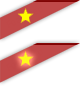
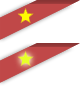
Further move ribbon lower.

diff --git a/css/pengx.css b/css/pengx.css
@@ -369,15 +369,15 @@ h2.title
      -moz-transition: all 0.2s ease-in-out;
        -o-transition: all 0.2s ease-in-out;
           transition: all 0.2s ease-in-out;
-  -webkit-box-shadow: 0 0 10px rgba(0, 0, 0, 0.05);
-     -moz-box-shadow: 0 0 10px rgba(0, 0, 0, 0.05);
-          box-shadow: 0 0 10px rgba(0, 0, 0, 0.05);
+  -webkit-box-shadow: 0 3px 10px rgba(0, 0, 0, 0.05);
+     -moz-box-shadow: 0 3px 10px rgba(0, 0, 0, 0.05);
+          box-shadow: 0 3px 10px rgba(0, 0, 0, 0.05);
 }
 
 .well:hover {
-  -webkit-box-shadow: 0 0 10px rgba(0, 0, 0, 0.2);
-     -moz-box-shadow: 0 0 10px rgba(0, 0, 0, 0.2);
-          box-shadow: 0 0 10px rgba(0, 0, 0, 0.2);
+  -webkit-box-shadow: 0 3px 10px rgba(0, 0, 0, 0.2);
+     -moz-box-shadow: 0 3px 10px rgba(0, 0, 0, 0.2);
+          box-shadow: 0 3px 10px rgba(0, 0, 0, 0.2);
 }
 
 /* 使帖子定位更精确 */
@@ -391,7 +391,7 @@ h2.title
   background:url('/image/featured-small-full.png') no-repeat;
   width: 80px;
   height: 25px;
-  margin-top: -25px;
+  margin-top: -24px;
   margin-left: -21px;
   padding-top: 15px;
   cursor: pointer;
